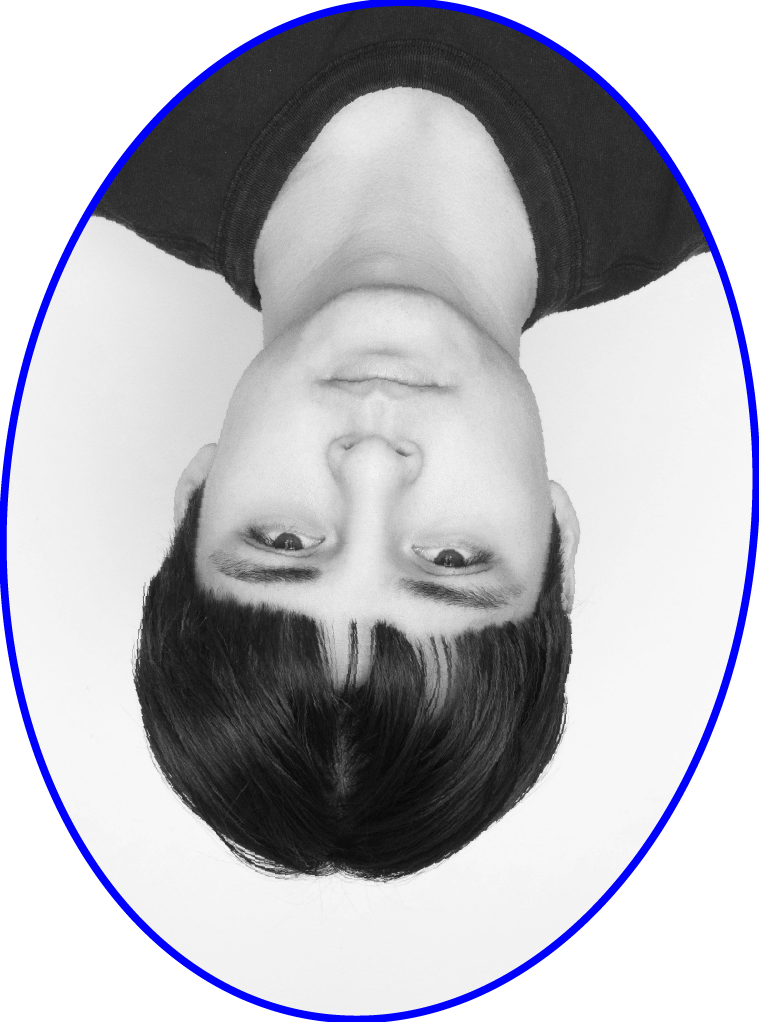
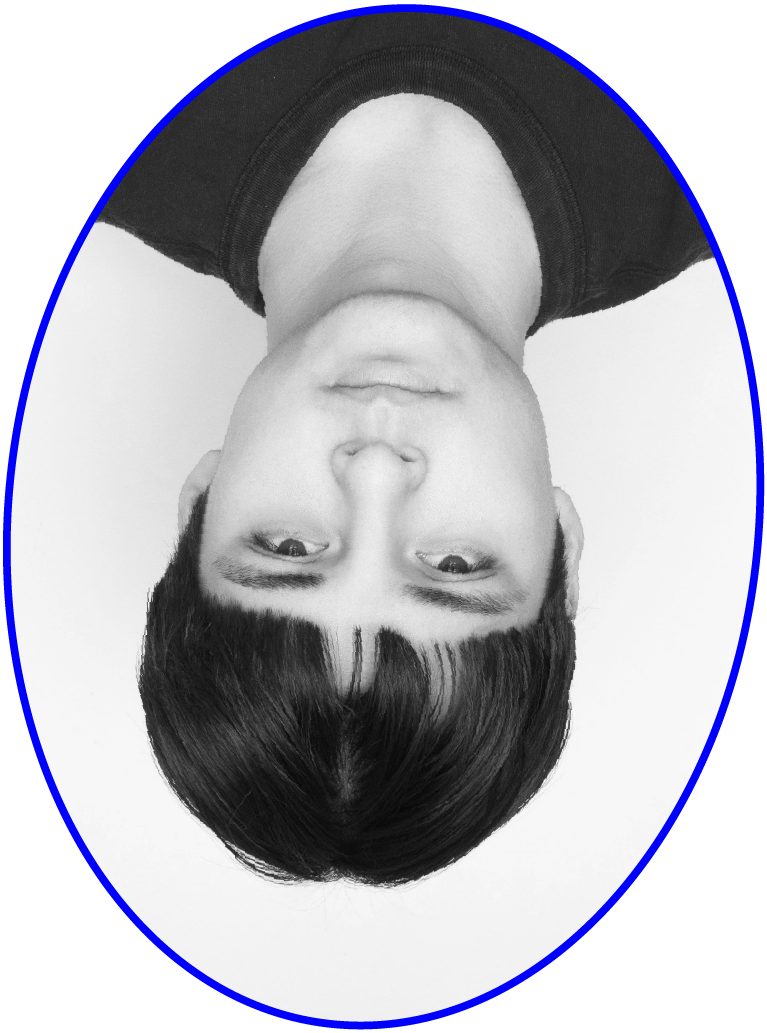
Add files via upload

diff --git a/about.html b/about.html
@@ -19,6 +19,10 @@
   <a href="index.html">edgarakiyama.com</a>
 </p>
 
+<p class="top_tag" >
+  <a href="index.html">← *top</a>
+</p>
+
 <p class="about_text">
 Profile<br>
 <br>
@@ -32,9 +36,10 @@ A Japanese graphic designer/womanizer. Born in 2003 in Shizuoka, Japan. Graduate
  <br>
 ＊<br>
  <br>
-最近、「パティシエ」という言葉が思い浮かばなかったので、「お菓子づくらー」という言葉で代用しました。言葉なんてなんでもいいんです。<br>
+最近、「パティシエ」という言葉が思い浮かばなかったので、「お菓子づくらー」という言葉で代用しました。言葉なんてなんでもいいんです。たまにはね。<br>
 <br>
-Recently, I couldn’t think of the word “pâtissier,” so I used “sweet-maker” instead. Words can be anything.<br>
+Lately, I couldn’t think of the word “pastry chef,” so I just went with “dessert maker.”
+Words don’t really matter that much. Sometimes.<br>
 <br>
 <br>
 <span class="abour-label">Copyright © 2026 Edgar Akiyama all rights reserved</span></p>

diff --git a/style.css b/style.css
@@ -45,12 +45,13 @@ html, body {
 
 
 .line-bottom {
-    width: 373px;
-    height: 0.8px;
-    margin-left: 2px;
-    margin-top: 395px;
-    background-color: black;
-    position: absolute;
+  position: absolute;
+  top: 410px;
+  left: 6px;
+
+  width: 373px;
+  height: 1.3px;
+  background-color: #000;
 }
 
 .log-label {
@@ -100,6 +101,29 @@ html, body {
   }
 }
 
+.top_tag {
+  position: fixed;
+  top: 23px;
+  left: 320px;
+
+  width: 373px;
+
+  font: 11px/1.3 'GRyumin', serif;
+  letter-spacing: -0.05em;
+  font-feature-settings: "palt";
+
+  color: #000;
+  text-align: justify;
+  text-align-last: left;
+}
+
+.top_tag a {
+  text-decoration: none;
+  color: #000;
+}
+
+
+
 /*about css*/
 
 .about_text {
@@ -142,12 +166,13 @@ html, body {
 }
 
 .line-bottom_02 {
-    width: 373px;
-    height: 0.8px;
-    margin-left: 2px;
-    margin-top: 70px;
-    background-color: black;
-    position: fixed;
+  position: absolute;
+  top: 70px;
+  left: 6px;
+
+  width: 373px;
+  height: 1.3px;
+  background-color: #000;
 }
 
 .about_image {

diff --git a/contact.html b/contact.html
@@ -19,6 +19,8 @@
   <a href="index.html">edgarakiyama.com</a>
 </p>
 
+<p class="top_tag" >← *top</p>
+
 <p class="contact_text">
 email <br>
 <a href="mailto:edgarakiyama.jp@gmail.com">

diff --git a/works.html b/works.html
@@ -19,4 +19,6 @@
   <a href="index.html">edgarakiyama.com</a>
 </p>
 
+<p class="top_tag" >← *top</p>
+
 </html>
